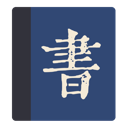
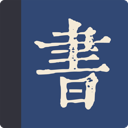
v1.4.8.1
[*] Updated icons

diff --git a/README_EN.md b/README_EN.md
@@ -113,13 +113,13 @@ Support for customized settings such as font size, line height, theme colors and
 
 Firefox:
 
-1. [Regular (v1.4.8)](https://addons.mozilla.org/en-US/firefox/addon/yijian/)
+1. [Regular (v1.4.8.1)](https://addons.mozilla.org/en-US/firefox/addon/yijian/)
 
 2. [No-UI (v1.2.6)](https://addons.mozilla.org/en-US/firefox/addon/yijian_nogui/)
 
 Chrome:
 
-1. [Regular (v1.4.8)](https://chrome.google.com/webstore/detail/%E6%98%93%E7%AC%BA/dbanahlbopbjpgdkecmclbbonhpohcaf?hl=en&authuser=0)
+1. [Regular (v1.4.8.1)](https://chrome.google.com/webstore/detail/%E6%98%93%E7%AC%BA/dbanahlbopbjpgdkecmclbbonhpohcaf?hl=en&authuser=0)
 
 2. [No-UI (v1.2.6)](https://chrome.google.com/webstore/detail/%E6%98%93%E7%AC%BA%EF%BC%88%E6%97%A0%E7%95%8C%E9%9D%A2%E7%89%88%EF%BC%89/mifnkjlmnnaamfgmhmjdjiplaaladjlo?hl=en&authuser=0)
 

diff --git a/README.md b/README.md
@@ -111,13 +111,13 @@
 
 火狐插件：
 
-1. [易笺正常版 (v1.4.8)](https://addons.mozilla.org/zh-CN/firefox/addon/yijian/)
+1. [易笺正常版 (v1.4.8.1)](https://addons.mozilla.org/zh-CN/firefox/addon/yijian/)
 
 2. [易笺无界面版 (v1.2.6)](https://addons.mozilla.org/zh-CN/firefox/addon/yijian_nogui/)
 
 Chrome插件：
 
-1. [易笺正常版 (v1.4.8)](https://chrome.google.com/webstore/detail/%E6%98%93%E7%AC%BA/dbanahlbopbjpgdkecmclbbonhpohcaf?hl=en&authuser=0)
+1. [易笺正常版 (v1.4.8.1)](https://chrome.google.com/webstore/detail/%E6%98%93%E7%AC%BA/dbanahlbopbjpgdkecmclbbonhpohcaf?hl=en&authuser=0)
 
 2. [易笺无界面版 (v1.2.6)](https://chrome.google.com/webstore/detail/%E6%98%93%E7%AC%BA%EF%BC%88%E6%97%A0%E7%95%8C%E9%9D%A2%E7%89%88%EF%BC%89/mifnkjlmnnaamfgmhmjdjiplaaladjlo?hl=en&authuser=0)
 
